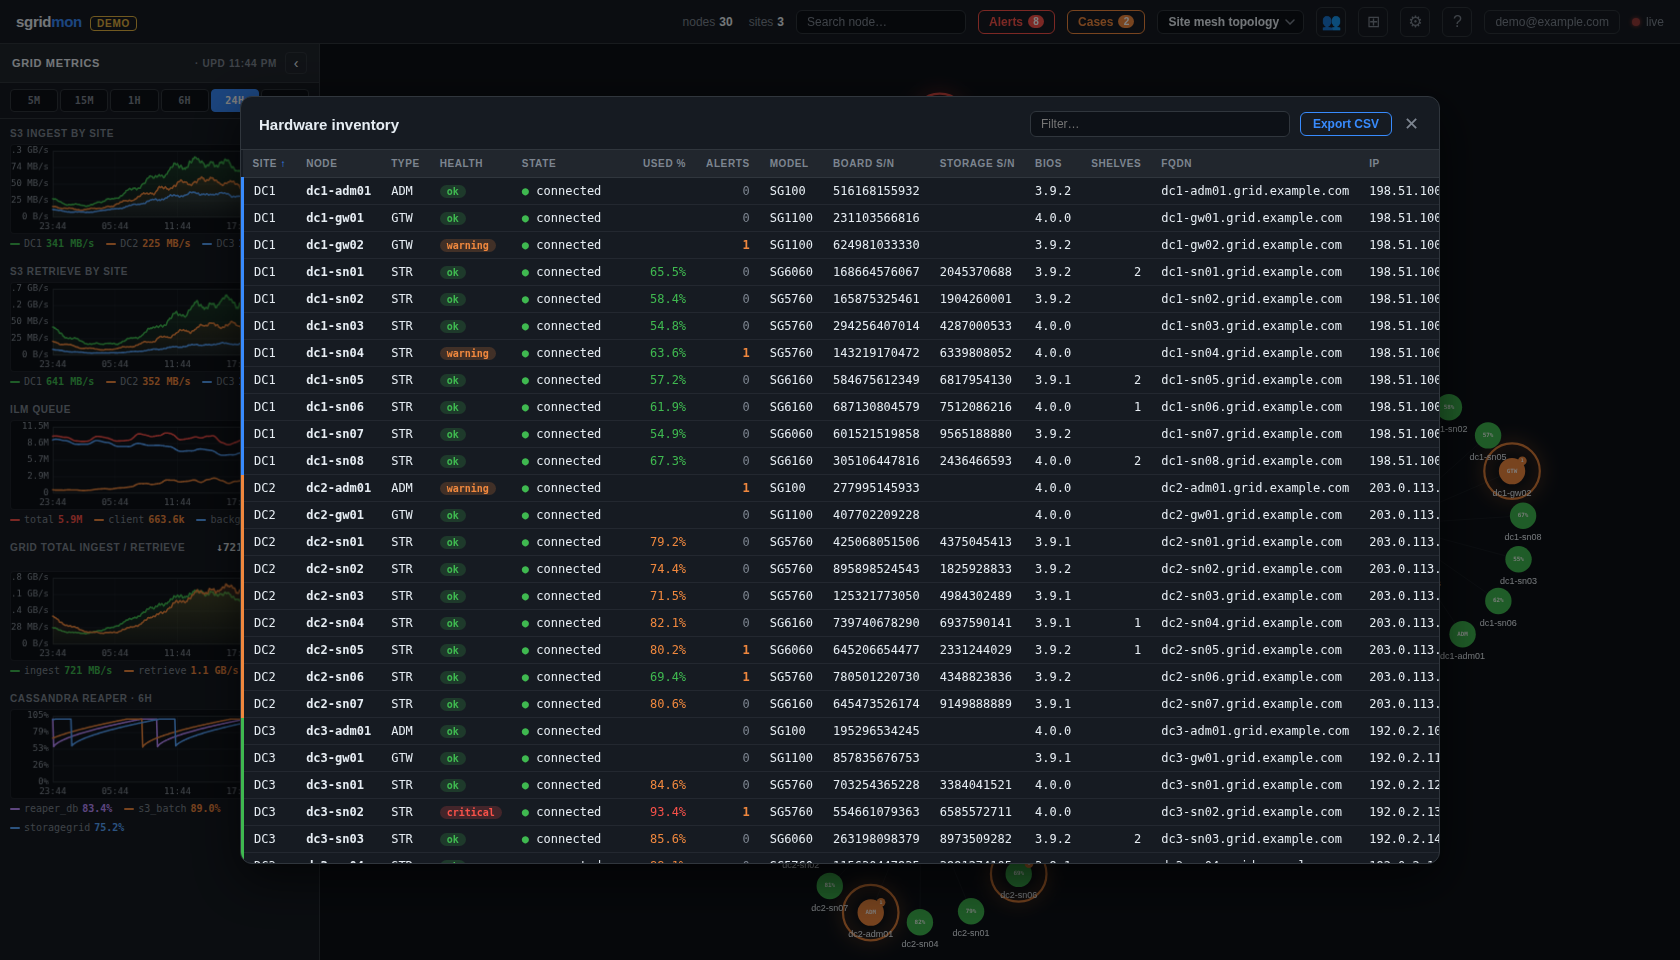
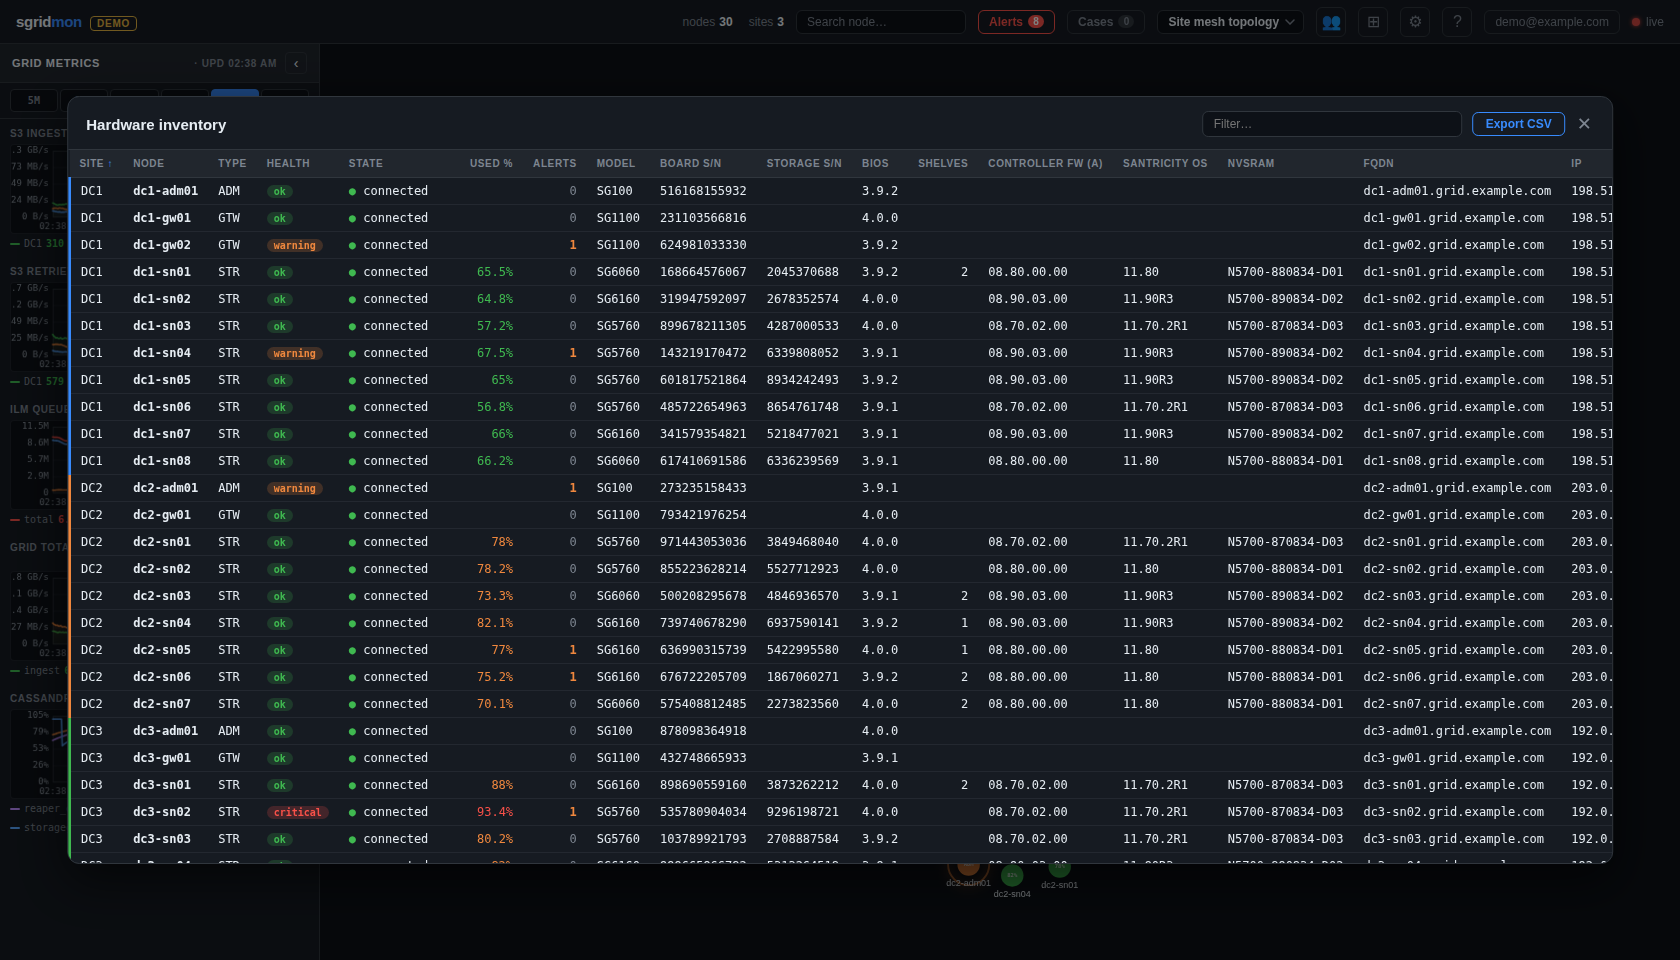
Show storage controller firmware, SANtricity OS and NVSRAM in node panel and inventory

Changed region(s): [[0.031, 0.0938, 0.9595, 1.0], [0.65, 0.0, 0.681, 0.0312]]

diff --git a/static/app.js b/static/app.js
@@ -1659,6 +1659,9 @@ function renderHardware(hw) {
   if (hw.storage_chassis_serial) rows.push(`<div class="hw-row"><span class="label">Storage S/N</span><span class="value">${escHtml(hw.storage_chassis_serial)}</span></div>`);
   if (hw.bios_version)       rows.push(`<div class="hw-row"><span class="label">BIOS</span><span class="value">${escHtml(hw.bios_version)}</span></div>`);
   if (typeof hw.shelf_count === 'number') rows.push(`<div class="hw-row"><span class="label">Shelves</span><span class="value">${hw.shelf_count}</span></div>`);
+  if (hw.storage_controller_firmware) rows.push(`<div class="hw-row"><span class="label">Controller FW (A)</span><span class="value">${escHtml(hw.storage_controller_firmware)}</span></div>`);
+  if (hw.storage_controller_os_version) rows.push(`<div class="hw-row"><span class="label">SANtricity OS</span><span class="value">${escHtml(hw.storage_controller_os_version)}</span></div>`);
+  if (hw.storage_controller_nvsram) rows.push(`<div class="hw-row"><span class="label">NVSRAM</span><span class="value">${escHtml(hw.storage_controller_nvsram)}</span></div>`);
   el('hardware-info').innerHTML = rows.join('') || '<span class="empty-msg">No hardware data available</span>';
 }
 
@@ -2614,6 +2617,9 @@ const INV_COLS = [
   { key: 'storageSerial',  label: 'Storage S/N' },
   { key: 'bios',           label: 'BIOS' },
   { key: 'shelves',        label: 'Shelves' },
+  { key: 'ctrlFw',         label: 'Controller FW (A)' },
+  { key: 'sansOs',         label: 'SANtricity OS' },
+  { key: 'nvsram',         label: 'NVSRAM' },
   { key: 'fqdn',           label: 'FQDN' },
   { key: 'ip',             label: 'IP' },
 ];
@@ -2633,6 +2639,9 @@ function nodeToInvRow(n) {
     storageSerial: hw.storage_chassis_serial || '',
     bios:          hw.bios_version || '',
     shelves:       typeof hw.shelf_count === 'number' ? hw.shelf_count : '',
+    ctrlFw:        hw.storage_controller_firmware || '',
+    sansOs:        hw.storage_controller_os_version || '',
+    nvsram:        hw.storage_controller_nvsram || '',
     fqdn:          n.fqdn || '',
     ip:            n.ip || '',
   };
@@ -2707,6 +2716,9 @@ function renderInventory() {
       <td>${escHtml(r.storageSerial)}</td>
       <td>${escHtml(r.bios)}</td>
       <td style="text-align:right">${escHtml(String(r.shelves))}</td>
+      <td>${escHtml(r.ctrlFw)}</td>
+      <td>${escHtml(r.sansOs)}</td>
+      <td>${escHtml(r.nvsram)}</td>
       <td>${escHtml(r.fqdn)}</td>
       <td>${escHtml(r.ip)}</td>
     </tr>`;

diff --git a/static/index.html b/static/index.html
@@ -5,7 +5,7 @@
   <meta name="viewport" content="width=device-width, initial-scale=1.0">
   <title>sgridmon</title>
   <link rel="icon" href="data:,">
-  <link rel="stylesheet" href="/style.css?v=1">
+  <link rel="stylesheet" href="/style.css?v=2">
 </head>
 <body>
 
@@ -251,6 +251,9 @@
           <th data-sort="storageSerial">Storage S/N</th>
           <th data-sort="bios">BIOS</th>
           <th data-sort="shelves">Shelves</th>
+          <th data-sort="ctrlFw">Controller FW (A)</th>
+          <th data-sort="sansOs">SANtricity OS</th>
+          <th data-sort="nvsram">NVSRAM</th>
           <th data-sort="fqdn">FQDN</th>
           <th data-sort="ip">IP</th>
         </tr>
@@ -326,6 +329,6 @@
 <div id="toast"></div>
 
 <script src="https://unpkg.com/force-graph@1.43.4/dist/force-graph.min.js"></script>
-<script src="/app.js?v=1"></script>
+<script src="/app.js?v=2"></script>
 </body>
 </html>

diff --git a/static/style.css b/static/style.css
@@ -357,7 +357,7 @@ tr.bucket-expanded-row td {
   position: fixed;
   top: 50%; left: 50%;
   transform: translate(-50%, -50%);
-  width: 92vw; max-width: 1200px;
+  width: 92vw; max-width: 1560px;
   height: 80vh;
   background: var(--surface);
   border: 1px solid var(--border);

diff --git a/demo.py b/demo.py
@@ -85,6 +85,14 @@ for _si, (_sname, _ngw, _nsn, _fill, _lat, _ipfx) in enumerate(_SITE_SPECS):
             _node["model"] = "SG1100"
         _node["board_serial"] = f"{_rng.randint(10**11, 10**12 - 1)}"
         _node["chassis_serial"] = f"{_rng.randint(10**9, 10**10 - 1)}"
+        if _ntype == "storageNode":
+            _node["cfw"], _node["sansos"], _node["nvsram"] = _rng.choice([
+                ("08.90.03.00", "11.90R3", "N5700-890834-D02"),
+                ("08.90.03.00", "11.90R3", "N5700-890834-D02"),
+                ("08.90.03.00", "11.90R3", "N5700-890834-D02"),
+                ("08.80.00.00", "11.80", "N5700-880834-D01"),
+                ("08.70.02.00", "11.70.2R1", "N5700-870834-D03"),
+            ])
         _node["bios"] = _rng.choice(["3.9.1", "3.9.2", "4.0.0"])
         NODES.append(_node)
         _IPS[_name] = f"{_ipfx}{10 + _hi}"
@@ -274,6 +282,14 @@ def _instant(promql: str) -> list[dict]:
     if q == "storagegrid_appliance_storage_controller_hardware_sensor":
         return [_v({"node_id": n["id"], "chassis_serial_number": n["chassis_serial"]}, 1)
                 for n in _storage_nodes()]
+    if "storage_controller_firmware_version" in q:
+        out = []
+        for n in _storage_nodes():
+            out.append(_v({"__name__": "storagegrid_appliance_storage_controller_firmware_version",
+                           "node_id": n["id"], "CFW": n["cfw"], "BundleDisplayVersion": n["sansos"]}, 1))
+            out.append(_v({"__name__": "storagegrid_appliance_storage_controller_nvsram_version",
+                           "node_id": n["id"], "NVSRAM": n["nvsram"]}, 1))
+        return out
     if "storagegrid_appliance_shelf_status" in q:
         return [_v({"node_id": n["id"]}, n["shelves"]) for n in _storage_nodes() if n["shelves"]]
 

diff --git a/poller.py b/poller.py
@@ -233,6 +233,32 @@ def _fetch_hardware(client: StorageGridClient) -> dict[str, dict]:
     except Exception:
         pass
 
+    # Storage controller firmware (E-Series controller behind SG appliances).
+    # Versions are exposed as labels; StorageGRID only reports controller A.
+    try:
+        res = client.query_metrics(
+            "storagegrid_appliance_storage_controller_firmware_version or "
+            "storagegrid_appliance_storage_controller_nvsram_version")
+        for item in res:
+            m = item["metric"]
+            nid = m.get("node_id", "")
+            if not nid:
+                continue
+            name = m.get("__name__", "")
+            if name.endswith("firmware_version"):
+                fw, osv = m.get("CFW"), m.get("BundleDisplayVersion")
+                if fw or osv:
+                    info.setdefault(nid, {})
+                    if fw:
+                        info[nid]["storage_controller_firmware"] = fw
+                    if osv:
+                        info[nid]["storage_controller_os_version"] = osv
+            elif name.endswith("nvsram_version") and m.get("NVSRAM"):
+                info.setdefault(nid, {})
+                info[nid]["storage_controller_nvsram"] = m["NVSRAM"]
+    except Exception as e:
+        logger.warning("storage controller firmware query failed: %s", e)
+
     return info
 
 

diff --git a/README.md b/README.md
@@ -42,7 +42,9 @@ It is a small FastAPI + PostgreSQL app with a framework-free JavaScript front en
   snapshots stored in the database, because StorageGRID doesn't expose bucket metrics
   in Prometheus. CSV export is included.
 - **Hardware inventory.** A sortable, filterable table of every node with model,
-  serials, BIOS, shelves, FQDN and IP, plus CSV export.
+  serials, BIOS, shelves, storage controller firmware, SANtricity OS and NVSRAM
+  versions, FQDN and IP, plus CSV export. StorageGRID only exposes controller A's
+  firmware; controller B is not available without SANtricity's own API.
 - **Users.** Local accounts with `admin` / `viewer` roles, bcrypt-hashed passwords and
   signed session cookies. Admins manage users from the UI.
 
